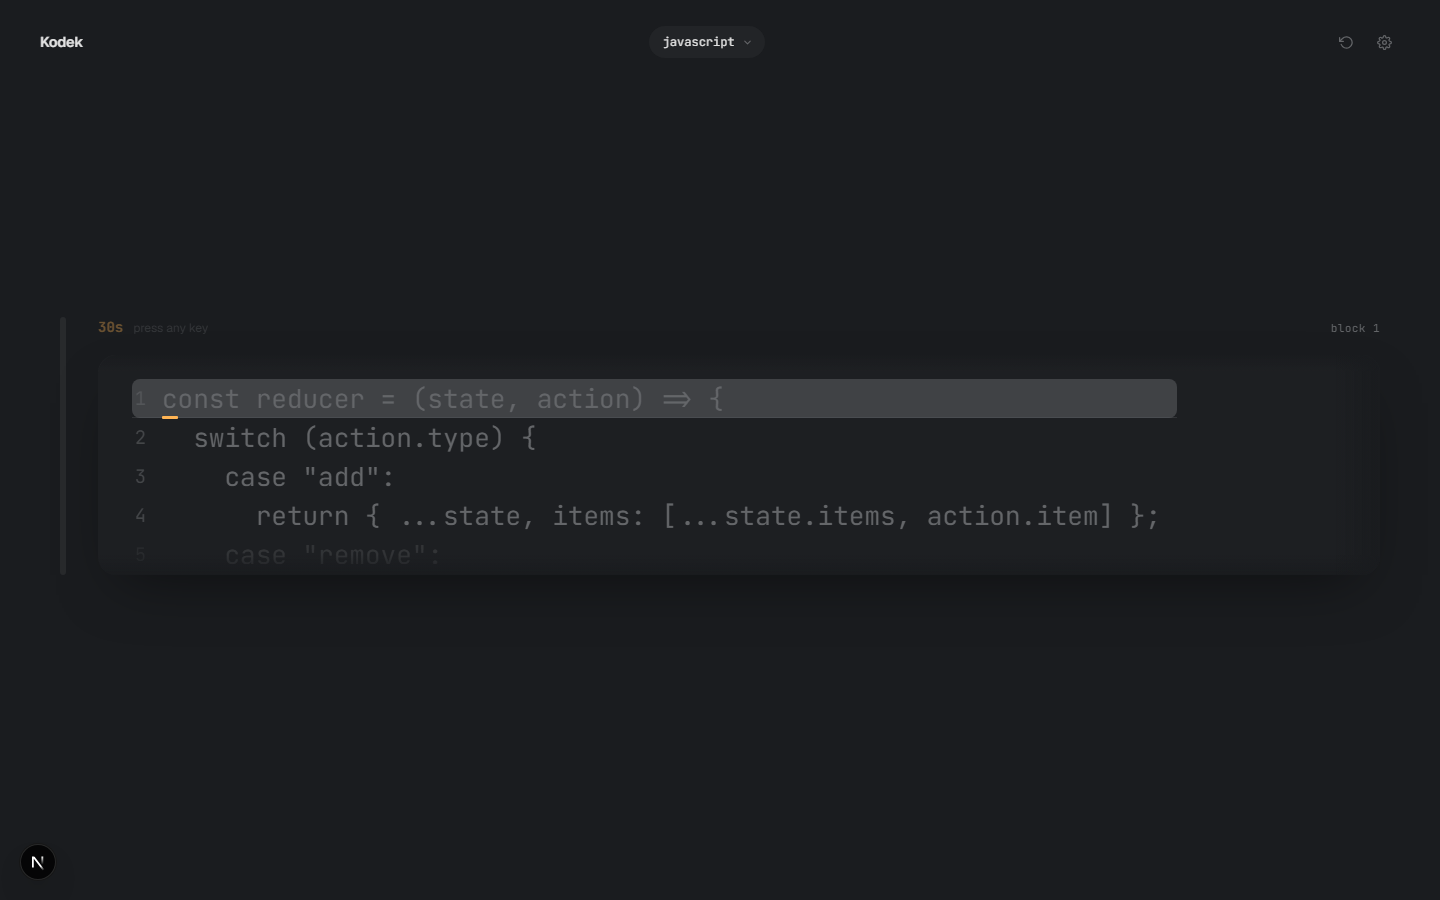
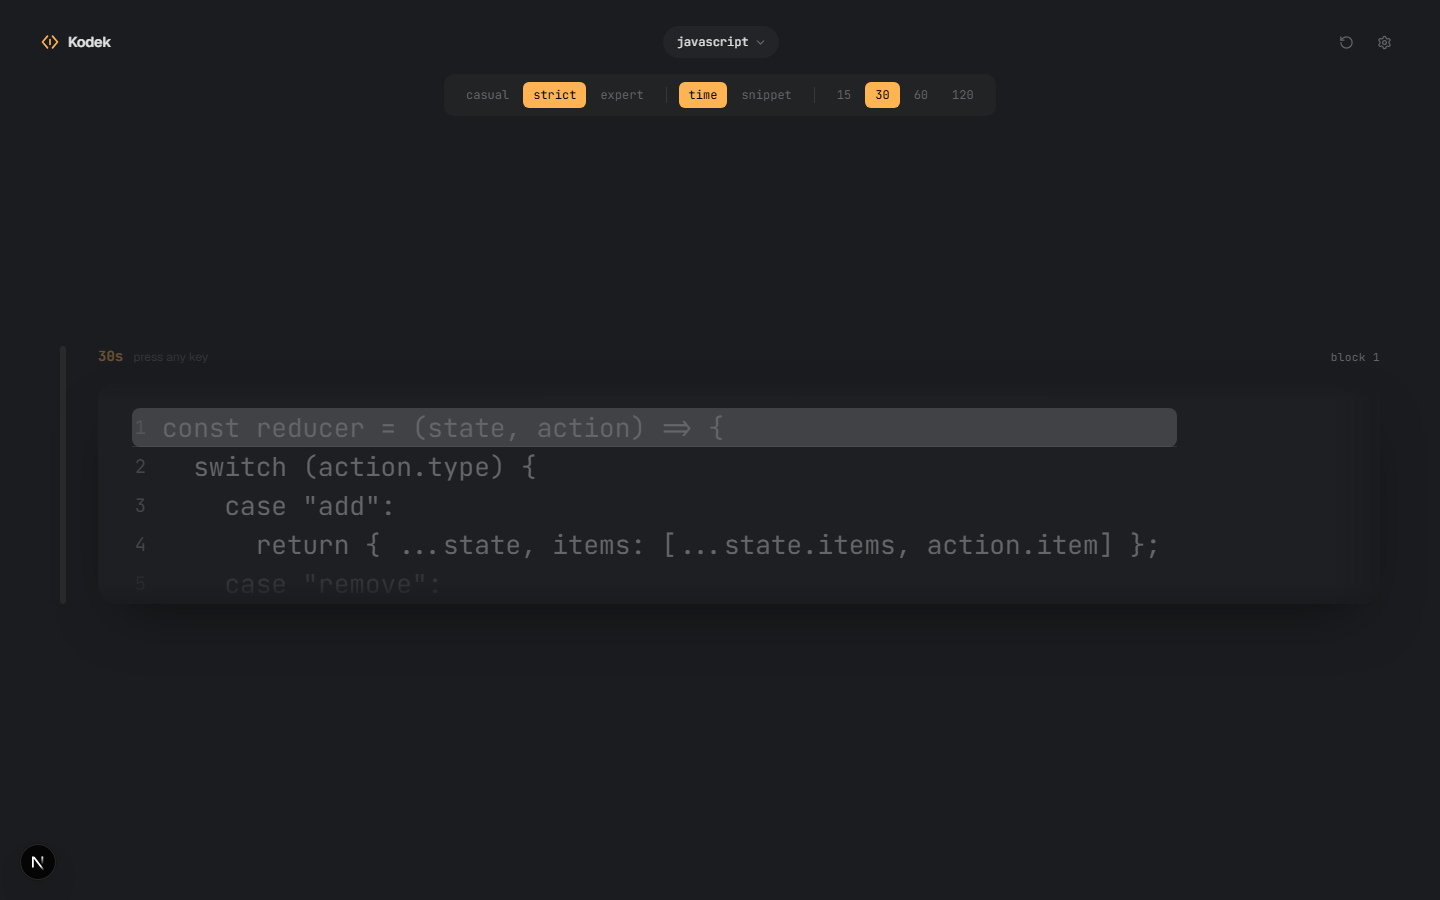
Update Koded gallery with fresh screenshots

diff --git a/lib/data.ts b/lib/data.ts
@@ -192,8 +192,8 @@ export const personal: Project[] = [
     meta: "SOLO DEVELOPER · 2026",
     desc: "A typing test, but for code — practice typing real syntax across programming languages instead of prose.",
     tech: ["TYPESCRIPT", "REACT"],
-    gallery: 1,
-    shots: gal("koded", 1),
+    gallery: 3,
+    shots: gal("koded", 3),
     cover: "/projects/koded/koded-1.png",
   },
 ];
@@ -223,7 +223,7 @@ export const featured = [
   },
   {
     slug: "koded",
-    shots: "01 SHOTS",
+    shots: "03 SHOTS",
     tech: "TYPESCRIPT / REACT",
     meta: "03 — SOLO DEVELOPER · 2026",
     title: "Koded",
